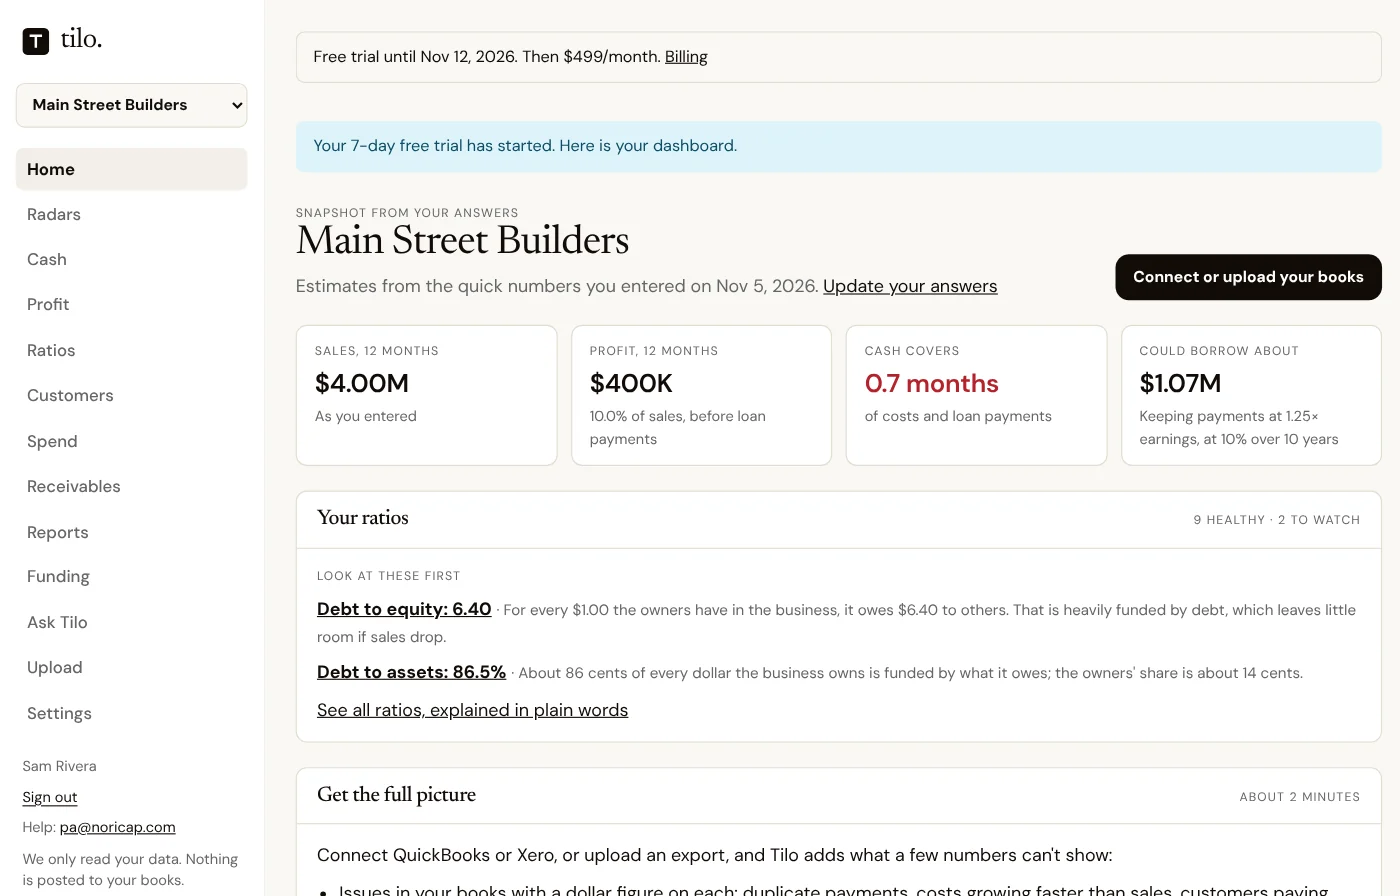
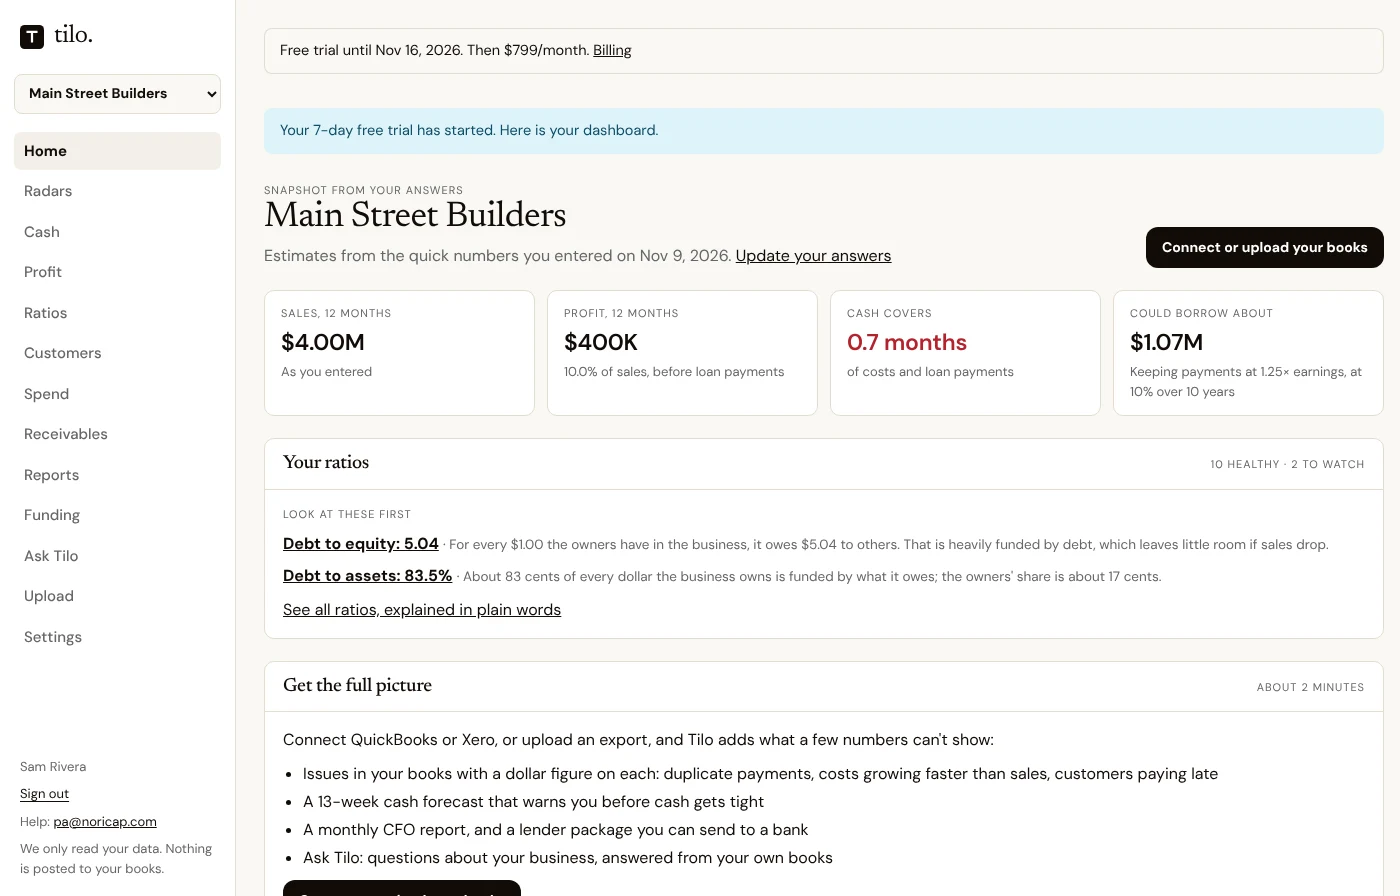
Homepage Scale section lists every page of the Tilo app (Home, Radars, Cash, Profit, Ratios, Customers, Spend, Receivables, Reports, Funding, Ask Tilo, Connect and team) with the dashboard screen; the step 4 dashboard screen retaken to show $799
Claude-Session: https://claude.ai/code/session_01KGySCjMLjiFFrWBHVVzkGh

diff --git a/index.html b/index.html
@@ -427,9 +427,11 @@ footer .disc{flex-basis:100%;font-size:13px;margin:0}
 
       <div style="display: flex; flex-direction: column; gap: 18px">
         <h3 style="margin: 0; font-family: Newsreader, Georgia, serif; font-weight: 400; font-size: 30px; letter-spacing: -0.02em; color: #FFFFFF">Your platform, working every day</h3>
-        <div style="display: grid; grid-template-columns: repeat(auto-fit, minmax(min(100%, 340px), 1fr)); gap: 14px"><div style="background: rgba(255,255,255,0.06); border-radius: 18px; padding: 22px; display: flex; flex-direction: column; gap: 10px"><h4 style="margin: 0; font-family: Newsreader, Georgia, serif; font-weight: 400; font-size: 24px; letter-spacing: -0.02em; color: #FFFFFF">Cash</h4><ul style="margin: 0; padding-left: 18px; display: flex; flex-direction: column; gap: 6px; font-size: 15px; line-height: 1.45; color: rgba(255,255,255,0.78)"><li>13-week cash forecast, refreshed every day</li><li>Warning before cash drops below your minimum</li><li>Loan payments, owner draws and taxes added in</li><li>The Monday email: your week at a glance</li></ul></div><div style="background: rgba(255,255,255,0.06); border-radius: 18px; padding: 22px; display: flex; flex-direction: column; gap: 10px"><h4 style="margin: 0; font-family: Newsreader, Georgia, serif; font-weight: 400; font-size: 24px; letter-spacing: -0.02em; color: #FFFFFF">Issues, sized in dollars</h4><ul style="margin: 0; padding-left: 18px; display: flex; flex-direction: column; gap: 6px; font-size: 15px; line-height: 1.45; color: rgba(255,255,255,0.78)"><li>Customers more than 60 days late</li><li>Possible duplicate payments</li><li>Subscriptions and supplier prices creeping up</li><li>Bills that look missing, spending with no category</li><li>Margin drops and costs growing faster than sales</li></ul></div><div style="background: rgba(255,255,255,0.06); border-radius: 18px; padding: 22px; display: flex; flex-direction: column; gap: 10px"><h4 style="margin: 0; font-family: Newsreader, Georgia, serif; font-weight: 400; font-size: 24px; letter-spacing: -0.02em; color: #FFFFFF">Profit and performance</h4><ul style="margin: 0; padding-left: 18px; display: flex; flex-direction: column; gap: 6px; font-size: 15px; line-height: 1.45; color: rgba(255,255,255,0.78)"><li>Monthly CFO report in plain English</li><li>Budget vs actual, every miss over 5% explained</li><li>20 financial ratios, each explained in plain words</li><li>Profit by account, with share of sales</li></ul></div><div style="background: rgba(255,255,255,0.06); border-radius: 18px; padding: 22px; display: flex; flex-direction: column; gap: 10px"><h4 style="margin: 0; font-family: Newsreader, Georgia, serif; font-weight: 400; font-size: 24px; letter-spacing: -0.02em; color: #FFFFFF">Customers and people</h4><ul style="margin: 0; padding-left: 18px; display: flex; flex-direction: column; gap: 6px; font-size: 15px; line-height: 1.45; color: rgba(255,255,255,0.78)"><li>Customer retention: who came back, revenue kept</li><li>How much rides on your biggest customers</li><li>Payroll against sales and budget</li><li>What a new hire does to earnings and cash</li></ul></div><div style="background: rgba(255,255,255,0.06); border-radius: 18px; padding: 22px; display: flex; flex-direction: column; gap: 10px"><h4 style="margin: 0; font-family: Newsreader, Georgia, serif; font-weight: 400; font-size: 24px; letter-spacing: -0.02em; color: #FFFFFF">Borrowing</h4><ul style="margin: 0; padding-left: 18px; display: flex; flex-direction: column; gap: 6px; font-size: 15px; line-height: 1.45; color: rgba(255,255,255,0.78)"><li>What you can borrow at today's earnings</li><li>Debt service coverage, today and with a new loan</li><li>What if: test prices, volume and costs first</li><li>Lender package as Excel or PDF, or a private 30-day link</li></ul></div><div style="background: rgba(255,255,255,0.06); border-radius: 18px; padding: 22px; display: flex; flex-direction: column; gap: 10px"><h4 style="margin: 0; font-family: Newsreader, Georgia, serif; font-weight: 400; font-size: 24px; letter-spacing: -0.02em; color: #FFFFFF">Ask and connect</h4><ul style="margin: 0; padding-left: 18px; display: flex; flex-direction: column; gap: 6px; font-size: 15px; line-height: 1.45; color: rgba(255,255,255,0.78)"><li>Ask Tilo anything, answered from your own books</li><li>QuickBooks Online, Xero or spreadsheet uploads</li><li>Read-only: Tilo never changes your books</li><li>Your team and your accountant join free</li></ul></div></div>
+        <p style="margin: 0; font-size: 16px; color: rgba(255,255,255,0.72)">Every page of the Tilo app is included. Your CFO works from the same screens you see.</p>
+        <img src="/img/step-4-dashboard.webp" alt="The Tilo dashboard for an example builder, with its menu: Home, Radars, Cash, Profit, Ratios, Customers, Spend, Receivables, Reports, Funding, Ask Tilo" loading="lazy" style="width: 100%; height: auto; border-radius: 16px; display: block">
+        <div style="display: grid; grid-template-columns: repeat(auto-fit, minmax(min(100%, 300px), 1fr)); gap: 14px"><div style="background: rgba(255,255,255,0.06); border-radius: 18px; padding: 22px; display: flex; flex-direction: column; gap: 10px"><h4 style="margin: 0; font-family: Newsreader, Georgia, serif; font-weight: 400; font-size: 24px; letter-spacing: -0.02em; color: #FFFFFF">Home</h4><p style="margin: 0; font-size: 15px; line-height: 1.45; color: #FFFFFF">Your business at a glance: sales, profit, how long cash lasts and what you could borrow.</p><ul style="margin: 0; padding-left: 18px; display: flex; flex-direction: column; gap: 6px; font-size: 14.5px; line-height: 1.45; color: rgba(255,255,255,0.78)"><li>What needs a decision today</li><li>Savings found vs. captured</li><li>Revenue and gross margin, month by month</li></ul></div><div style="background: rgba(255,255,255,0.06); border-radius: 18px; padding: 22px; display: flex; flex-direction: column; gap: 10px"><h4 style="margin: 0; font-family: Newsreader, Georgia, serif; font-weight: 400; font-size: 24px; letter-spacing: -0.02em; color: #FFFFFF">Radars</h4><p style="margin: 0; font-size: 15px; line-height: 1.45; color: #FFFFFF">Problems found in your books, each with a dollar figure.</p><ul style="margin: 0; padding-left: 18px; display: flex; flex-direction: column; gap: 6px; font-size: 14.5px; line-height: 1.45; color: rgba(255,255,255,0.78)"><li>Customers more than 60 days late</li><li>Possible duplicate payments</li><li>Costs growing faster than sales, margin drops, bills that look missing</li></ul></div><div style="background: rgba(255,255,255,0.06); border-radius: 18px; padding: 22px; display: flex; flex-direction: column; gap: 10px"><h4 style="margin: 0; font-family: Newsreader, Georgia, serif; font-weight: 400; font-size: 24px; letter-spacing: -0.02em; color: #FFFFFF">Cash</h4><p style="margin: 0; font-size: 15px; line-height: 1.45; color: #FFFFFF">A 13-week cash forecast, week by week.</p><ul style="margin: 0; padding-left: 18px; display: flex; flex-direction: column; gap: 6px; font-size: 14.5px; line-height: 1.45; color: rgba(255,255,255,0.78)"><li>When customers are likely to pay and bills fall due</li><li>Loans, owner draws and taxes added in</li><li>A warning before you dip below your minimum</li></ul></div><div style="background: rgba(255,255,255,0.06); border-radius: 18px; padding: 22px; display: flex; flex-direction: column; gap: 10px"><h4 style="margin: 0; font-family: Newsreader, Georgia, serif; font-weight: 400; font-size: 24px; letter-spacing: -0.02em; color: #FFFFFF">Profit</h4><p style="margin: 0; font-size: 15px; line-height: 1.45; color: #FFFFFF">Where the money is made and lost.</p><ul style="margin: 0; padding-left: 18px; display: flex; flex-direction: column; gap: 6px; font-size: 14.5px; line-height: 1.45; color: rgba(255,255,255,0.78)"><li>Monthly profit and loss</li><li>Revenue and gross margin</li><li>Every cost account, with its share of sales</li></ul></div><div style="background: rgba(255,255,255,0.06); border-radius: 18px; padding: 22px; display: flex; flex-direction: column; gap: 10px"><h4 style="margin: 0; font-family: Newsreader, Georgia, serif; font-weight: 400; font-size: 24px; letter-spacing: -0.02em; color: #FFFFFF">Ratios</h4><p style="margin: 0; font-size: 15px; line-height: 1.45; color: #FFFFFF">20 standard ratios, read in plain words.</p><ul style="margin: 0; padding-left: 18px; display: flex; flex-direction: column; gap: 6px; font-size: 14.5px; line-height: 1.45; color: rgba(255,255,255,0.78)"><li>Healthy, Fair or Watch on each</li><li>Grouped: paying your bills, profit, how fast cash moves, value to owners</li><li>"Look at these first" for the ones that matter</li></ul></div><div style="background: rgba(255,255,255,0.06); border-radius: 18px; padding: 22px; display: flex; flex-direction: column; gap: 10px"><h4 style="margin: 0; font-family: Newsreader, Georgia, serif; font-weight: 400; font-size: 24px; letter-spacing: -0.02em; color: #FFFFFF">Customers</h4><p style="margin: 0; font-size: 15px; line-height: 1.45; color: #FFFFFF">Who your business really depends on.</p><ul style="margin: 0; padding-left: 18px; display: flex; flex-direction: column; gap: 6px; font-size: 14.5px; line-height: 1.45; color: rgba(255,255,255,0.78)"><li>Top customers and how much rides on them</li><li>Who stopped buying this year</li><li>Revenue kept from last year</li></ul></div><div style="background: rgba(255,255,255,0.06); border-radius: 18px; padding: 22px; display: flex; flex-direction: column; gap: 10px"><h4 style="margin: 0; font-family: Newsreader, Georgia, serif; font-weight: 400; font-size: 24px; letter-spacing: -0.02em; color: #FFFFFF">Spend</h4><p style="margin: 0; font-size: 15px; line-height: 1.45; color: #FFFFFF">Every dollar going out, organized.</p><ul style="margin: 0; padding-left: 18px; display: flex; flex-direction: column; gap: 6px; font-size: 14.5px; line-height: 1.45; color: rgba(255,255,255,0.78)"><li>Largest suppliers and vendors</li><li>Recurring subscriptions, with the yearly cost</li><li>Possible duplicate payments</li></ul></div><div style="background: rgba(255,255,255,0.06); border-radius: 18px; padding: 22px; display: flex; flex-direction: column; gap: 10px"><h4 style="margin: 0; font-family: Newsreader, Georgia, serif; font-weight: 400; font-size: 24px; letter-spacing: -0.02em; color: #FFFFFF">Receivables</h4><p style="margin: 0; font-size: 15px; line-height: 1.45; color: #FFFFFF">Who owes you, and how late.</p><ul style="margin: 0; padding-left: 18px; display: flex; flex-direction: column; gap: 6px; font-size: 14.5px; line-height: 1.45; color: rgba(255,255,255,0.78)"><li>Unpaid invoices by age</li><li>Who to call first, ranked by dollars</li><li>The base the collections agent works from</li></ul></div><div style="background: rgba(255,255,255,0.06); border-radius: 18px; padding: 22px; display: flex; flex-direction: column; gap: 10px"><h4 style="margin: 0; font-family: Newsreader, Georgia, serif; font-weight: 400; font-size: 24px; letter-spacing: -0.02em; color: #FFFFFF">Reports</h4><p style="margin: 0; font-size: 15px; line-height: 1.45; color: #FFFFFF">A monthly CFO report, written for you.</p><ul style="margin: 0; padding-left: 18px; display: flex; flex-direction: column; gap: 6px; font-size: 14.5px; line-height: 1.45; color: rgba(255,255,255,0.78)"><li>Budget vs actual, every miss over 5% explained</li><li>Biggest cost and customer changes</li><li>Tilo's commentary in plain English</li></ul></div><div style="background: rgba(255,255,255,0.06); border-radius: 18px; padding: 22px; display: flex; flex-direction: column; gap: 10px"><h4 style="margin: 0; font-family: Newsreader, Georgia, serif; font-weight: 400; font-size: 24px; letter-spacing: -0.02em; color: #FFFFFF">Funding</h4><p style="margin: 0; font-size: 15px; line-height: 1.45; color: #FFFFFF">Walk into the bank ready.</p><ul style="margin: 0; padding-left: 18px; display: flex; flex-direction: column; gap: 6px; font-size: 14.5px; line-height: 1.45; color: rgba(255,255,255,0.78)"><li>Earnings lenders use, with add-backs</li><li>What you can borrow and your loan coverage</li><li>What if: test a loan, prices or costs first</li><li>Lender package as Excel or PDF, or a private 30-day link</li></ul></div><div style="background: rgba(255,255,255,0.06); border-radius: 18px; padding: 22px; display: flex; flex-direction: column; gap: 10px"><h4 style="margin: 0; font-family: Newsreader, Georgia, serif; font-weight: 400; font-size: 24px; letter-spacing: -0.02em; color: #FFFFFF">Ask Tilo</h4><p style="margin: 0; font-size: 15px; line-height: 1.45; color: #FFFFFF">Ask anything about your numbers.</p><ul style="margin: 0; padding-left: 18px; display: flex; flex-direction: column; gap: 6px; font-size: 14.5px; line-height: 1.45; color: rgba(255,255,255,0.78)"><li>Answered from your own books</li><li>Every figure behind the answer shown</li><li>Tilo explains numbers; it never invents them</li></ul></div><div style="background: rgba(255,255,255,0.06); border-radius: 18px; padding: 22px; display: flex; flex-direction: column; gap: 10px"><h4 style="margin: 0; font-family: Newsreader, Georgia, serif; font-weight: 400; font-size: 24px; letter-spacing: -0.02em; color: #FFFFFF">Connect and team</h4><p style="margin: 0; font-size: 15px; line-height: 1.45; color: #FFFFFF">Set up in minutes, no change to your systems.</p><ul style="margin: 0; padding-left: 18px; display: flex; flex-direction: column; gap: 6px; font-size: 14.5px; line-height: 1.45; color: rgba(255,255,255,0.78)"><li>QuickBooks Online, Xero or a spreadsheet upload</li><li>The Monday email: your week at a glance</li><li>Your team and your accountant join free</li></ul></div></div>
+        <p style="margin: 0; font-size: 13px; color: rgba(255,255,255,0.6)">App screen shows a made-up example business.</p>
       </div>
-
       <p style="margin: 0; font-size: 13px; color: rgba(255,255,255,0.6)">*Pilot, “Fractional CFO cost guide”, checked November 2, 2026.</p>
     </div>
   </section>
